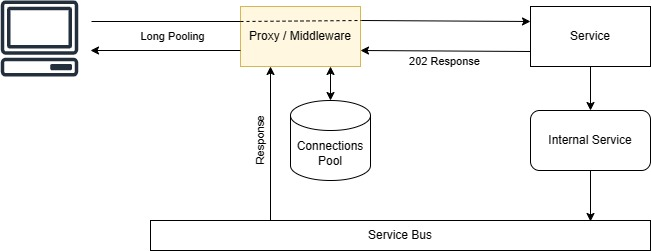
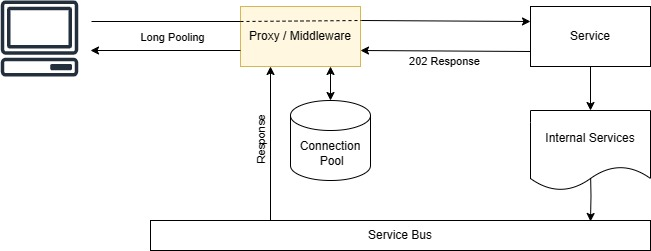
fix picture & add description about azure function

diff --git a/README.md b/README.md
@@ -29,13 +29,15 @@ app.MapPost("/SampleEndpoint", async (HttpContext httpContext) =>
 });
 ```
 
-Also, you can use it in YARP:
+Also, you can use it in ``YARP``:
 ```C#
 app.MapReverseProxy(proxyPipeline =>
 {
     proxyPipeline.UseMiddleware<AsyncRequestToSyncMiddleware>();
 });
 ```
+
+With some minor changes, you can use this module as a middleware in ``Azure Functions`` isolated worker.
 
 ## Discussion
 Asynchronous requests and eventual consistency are common challenges between Front and Back teams.
